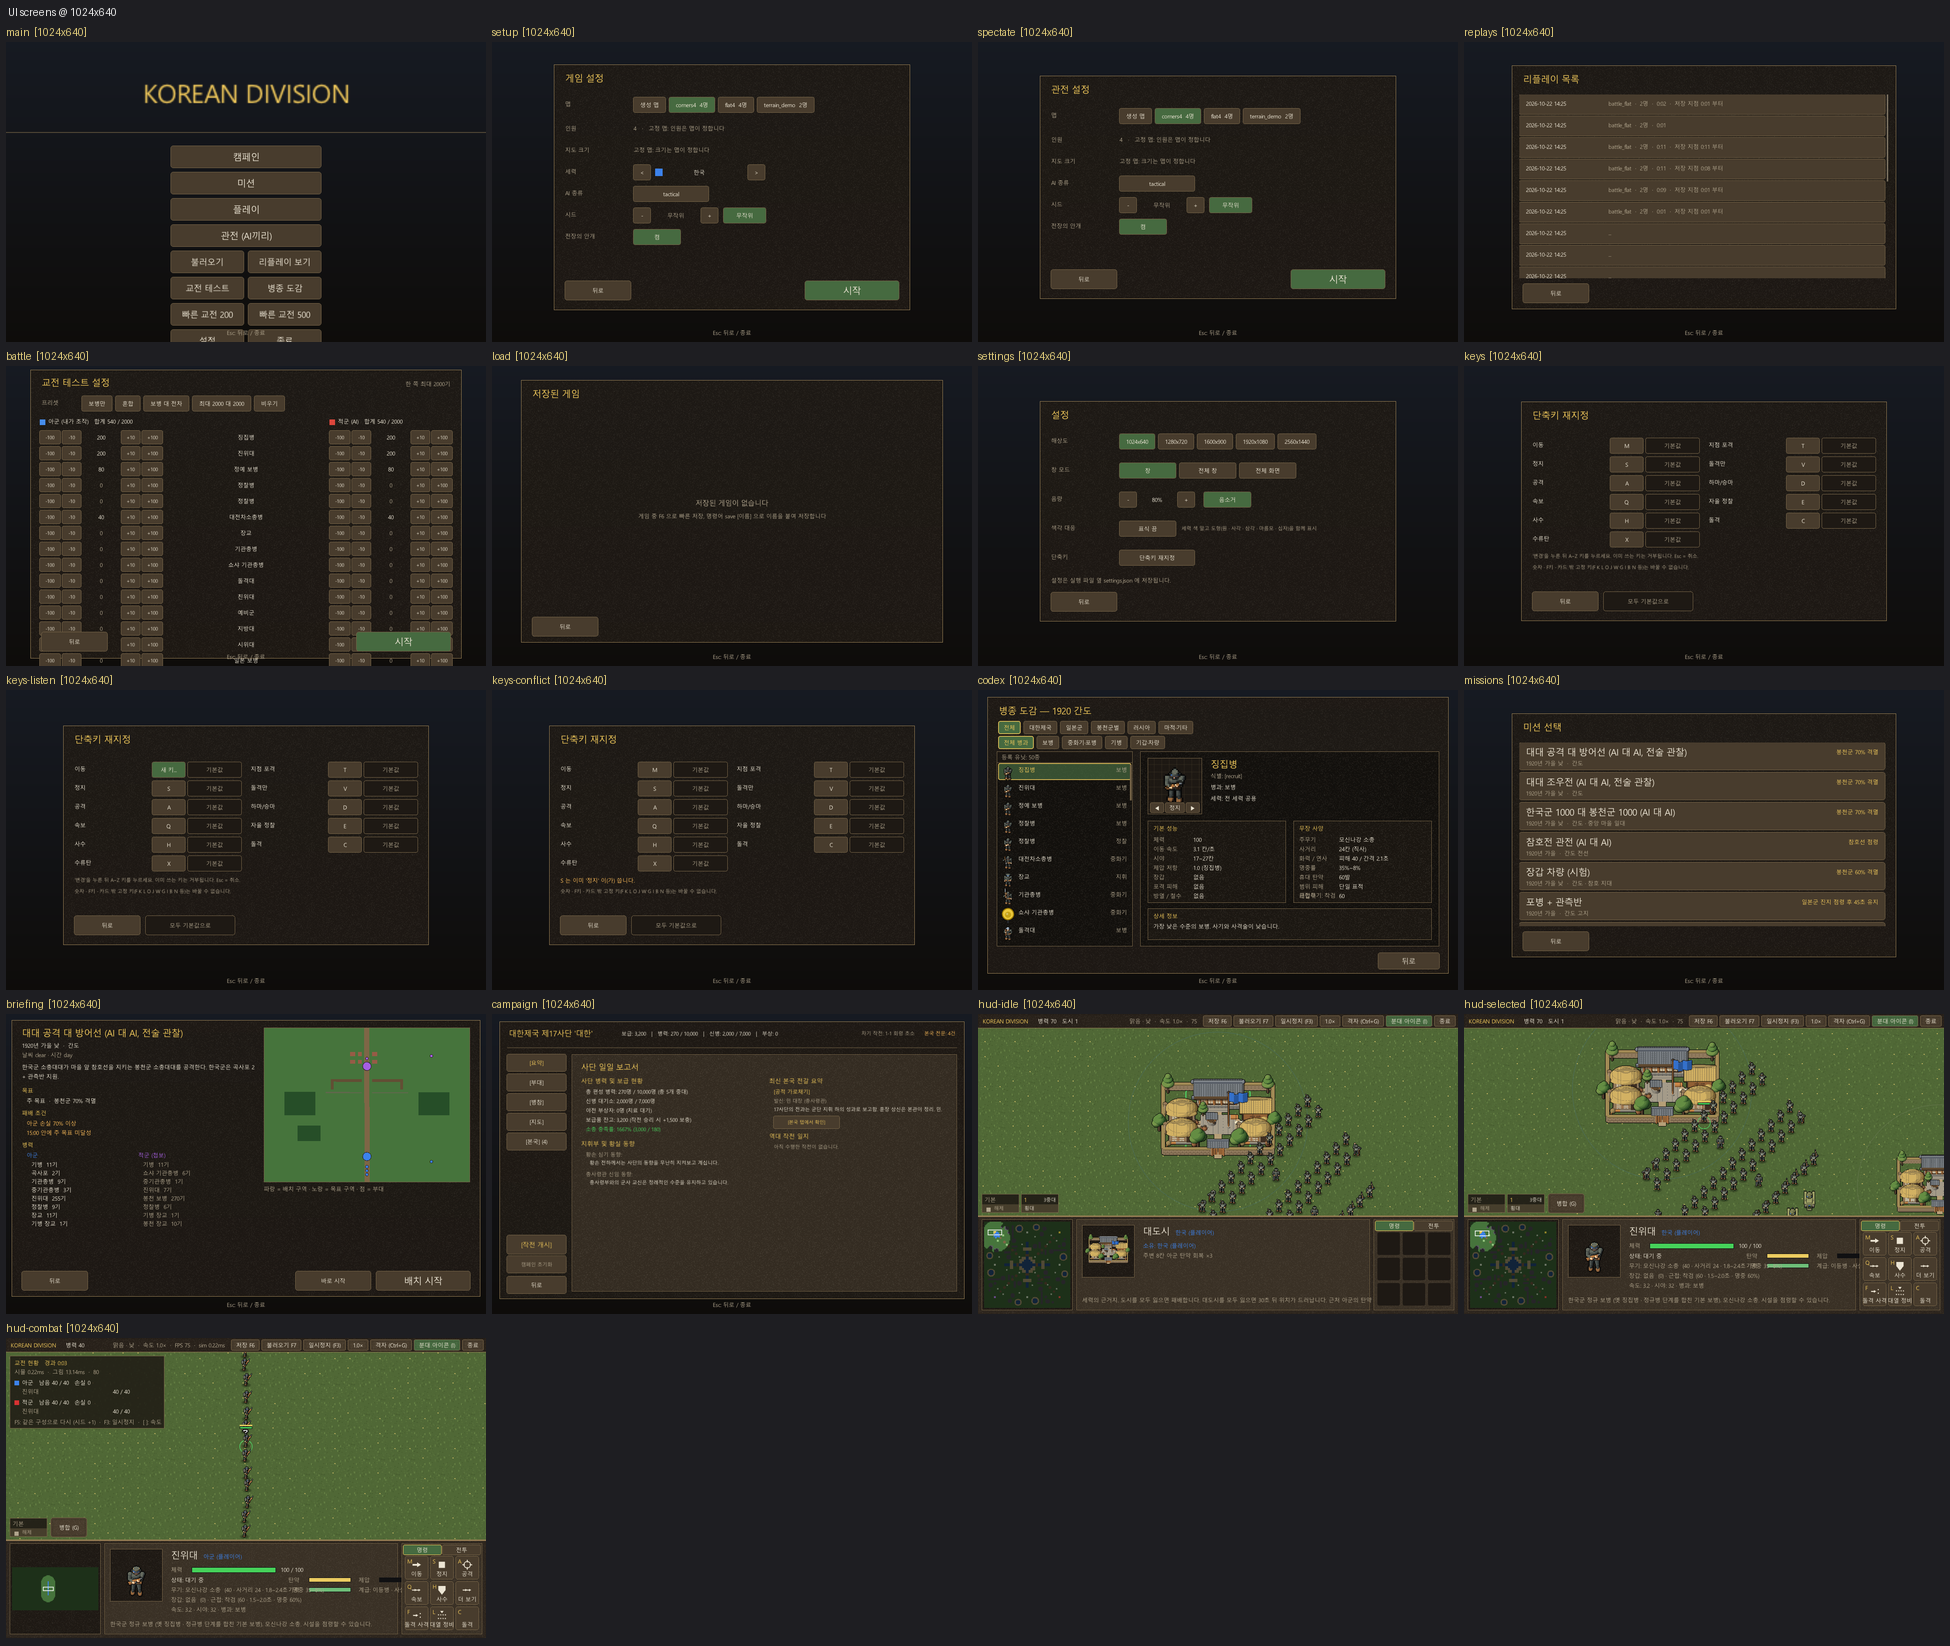
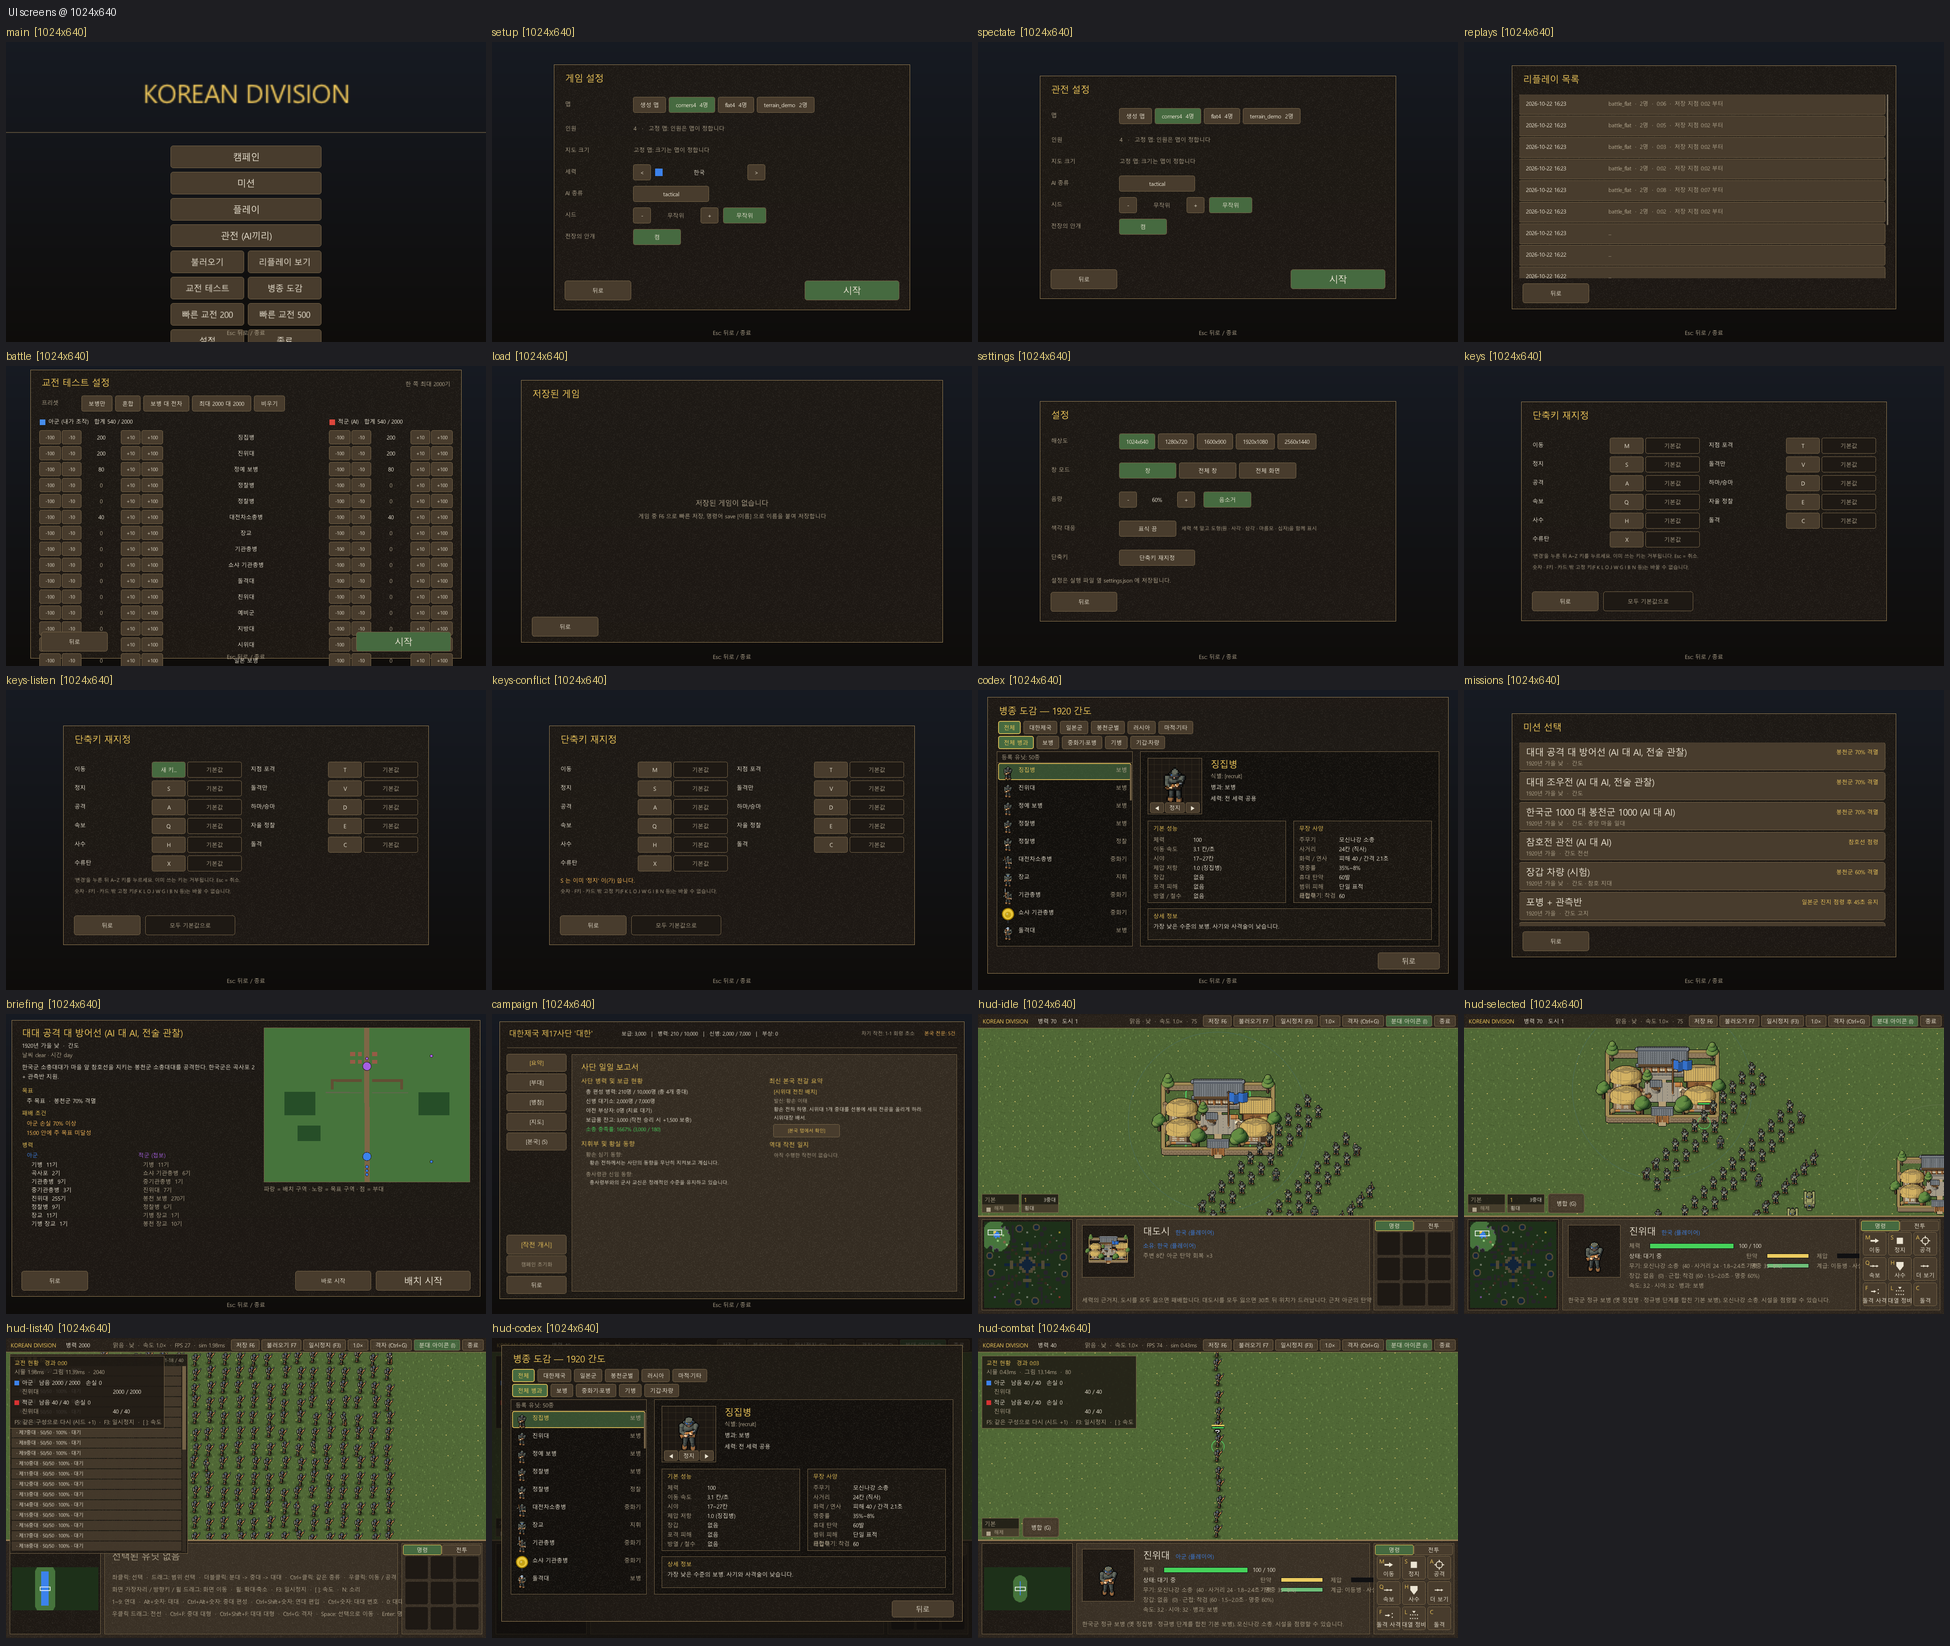
T38e: verification (uiicons, uifuzz 30 + fuzz-menu, detcheck GOLDEN), sheets 1024x640/1280x720 with list40 + in-battle codex

diff --git a/korean-division/tasks/T38e-unitlist-codex-tips.md b/korean-division/tasks/T38e-unitlist-codex-tips.md
@@ -19,4 +19,4 @@ selftest(uiicons) · uifuzz · 시트(행 40개 상태).
 구현: Hud 목록 스크롤 (순수 함수 ListClamp/EnsureVisible/ScrollFromFraction), 제목줄 "a-b / 총" 표시, Game F2/ToggleCodex/CodexBox, 콘솔 codexui · listui · listscroll N, Bindings F2 + CONTROLS 표, 퍼즈 키 F2, 퍼즈 겨냥 등록 listrow/listbar. 시뮬 · 기본값 · FormatVersion 무변경.
 Palette 우회 그리기 (T38d 예외 목록): 신규 없음 - 모두 Palette 토큰 (Panel/PanelBorder/Accent/TextDim/Void) 사용. 도감 뒤 어둡게 = Palette.Void 알파 (HelpOverlay 와 동일 패턴).
 툴팁 누락 후보 (미추가): 상단 버튼(저장/불러오기/격자/아이콘/종료), 대대 목록 행(클릭=선택, Shift=추가), 목록 막대, 미니맵, 정보 패널 부대 상태 아이콘.
-검증: build OK (listscroll 추가 전), selftest uiicons PASS (스크롤 · F2 · CONTROLS 동기). 미완: listscroll 추가분 재빌드, uifuzz 30 (+ --fuzz-menu), detcheck, 시트 - heavy_gate 가 25분+ 대기 (대기열 18개)로 차단되어 보류. 규칙: 창은 <=1280x720 만 (1920 시트 생략).
+검증 (2026-10-22, heavy_gate 대기 후 - 마지막 몇 회는 "gate timeout, proceed carefully" 였음): build 오류 0 (listscroll 콘솔 컴파일 확인), selftest uiicons PASS, uifuzz 30 (1280x720 창): 1192프레임 예외 0 · 크래시 0, uifuzz 30 --fuzz-menu: 1886프레임 예외 0 · 크래시 지점 0, detcheck GOLDEN match (8aa6448b 그대로). 시트: docs/art_review/ui_sheet_1024x640.png · ui_sheet_1280x720.png · ui_sheet_all.png (hud-list40 = 40행 스크롤 막대 · 12행 스크롤 상태, hud-codex = 전투 중 도감 추가). 1920x1080 시트는 사용자 규칙(창 <=1280x720)으로 갱신 안 함 (기존 파일 그대로).
